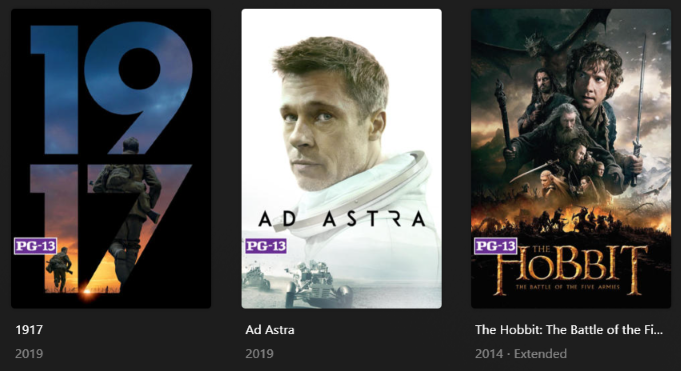
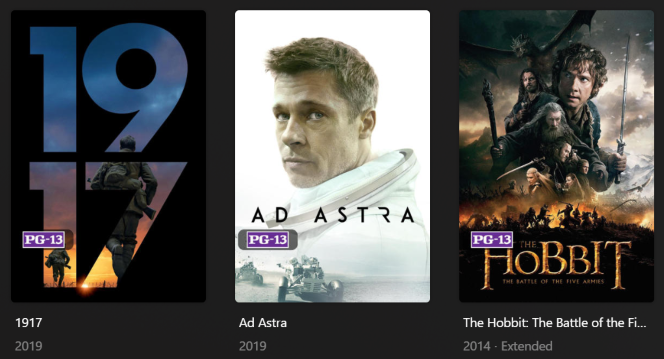
reorg bottom left overlays

diff --git a/docs/defaults/overlays/streaming.md b/docs/defaults/overlays/streaming.md
@@ -55,19 +55,19 @@ Note that the `template_variables:` section only needs to be used if you do want
 
 All [Shared Overlay Variables](../overlay_variables) are available with the default values below as well as the additional Variables below which can be used to customize the file.
 
-| Variable                     | Description & Values                                                                                                                                                                                                                                                                                                                     |
-|:-----------------------------|:-----------------------------------------------------------------------------------------------------------------------------------------------------------------------------------------------------------------------------------------------------------------------------------------------------------------------------------------|
-| `horizontal_offset`          | **Description:** Change the horizontal offset.<br>**Default Value:** `15`                                                                                                                                                                                                                                                                |
-| `horizontal_align`           | **Description:** Change the horizontal alignment.<br>**Default Value:** `left`                                                                                                                                                                                                                                                           |
-| `vertical_offset`            | **Description:** Change the vertical offset.<br>**Default Value:** `150`                                                                                                                                                                                                                                                                 |
-| `vertical_align`             | **Description:** Change the vertical alignment.<br>**Default Value:** `bottom`                                                                                                                                                                                                                                                           |
-| `back_color`                 | **Description:** Change the back color.<br>**Default Value:** `#00000099`                                                                                                                                                                                                                                                                |
-| `back_radius`                | **Description:** Change the back (lozenge) radius .<br>**Default Value:** `30`                                                                                                                                                                                                                                                           |
-| `back_width`                 | **Description:** Change the back (lozenge) width.<br>**Default Value:** `305`                                                                                                                                                                                                                                                            |
-| `back_height`                | **Description:** Change the back (lozenge) height.<br>**Default Value:** `105`                                                                                                                                                                                                                                                           |
-| `region`                     | **Description:** Changes some Streaming Service lists to regional variants (see below table for more information.<br>**Default:** `us`<br>**Values:** `us`,`uk`,`ca`, `da`, `de`, `es`, `fr`, `it`, `pt-br`                                                                                                                              |
-| `originals_only`             | **Description:** Changes Streaming Service overlays to only apply to original content produced by the service.<br>**Note**: Cannot be used with `region`, and only produces overlays for `amazon`, `appletv`, `disney`, `max`, `hulu`, `netflix`, `paramount`, `peacock`<br>**Default:** `false`<br>**Values:** `true`, `false`       |
-| `weight_<<key>>`<sup>1</sup> | **Description:** Controls the weight of the Overlay. Higher numbers have priority.<br>**Values:** Any Number                                                                                                                                                                                                                             |
+| Variable                     | Description & Values                                                                                                                                                                                                                                                                                                            |
+|:-----------------------------|:--------------------------------------------------------------------------------------------------------------------------------------------------------------------------------------------------------------------------------------------------------------------------------------------------------------------------------|
+| `horizontal_offset`          | **Description:** Change the horizontal offset.<br>**Default Value:** `15`                                                                                                                                                                                                                                                       |
+| `horizontal_align`           | **Description:** Change the horizontal alignment.<br>**Default Value:** `left`                                                                                                                                                                                                                                                  |
+| `vertical_offset`            | **Description:** Change the vertical offset.<br>**Default Value:** `390`                                                                                                                                                                                                                                                        |
+| `vertical_align`             | **Description:** Change the vertical alignment.<br>**Default Value:** `bottom`                                                                                                                                                                                                                                                  |
+| `back_color`                 | **Description:** Change the back color.<br>**Default Value:** `#00000099`                                                                                                                                                                                                                                                       |
+| `back_radius`                | **Description:** Change the back (lozenge) radius .<br>**Default Value:** `30`                                                                                                                                                                                                                                                  |
+| `back_width`                 | **Description:** Change the back (lozenge) width.<br>**Default Value:** `305`                                                                                                                                                                                                                                                   |
+| `back_height`                | **Description:** Change the back (lozenge) height.<br>**Default Value:** `105`                                                                                                                                                                                                                                                  |
+| `region`                     | **Description:** Changes some Streaming Service lists to regional variants (see below table for more information.<br>**Default:** `us`<br>**Values:** `us`,`uk`,`ca`, `da`, `de`, `es`, `fr`, `it`, `pt-br`                                                                                                                     |
+| `originals_only`             | **Description:** Changes Streaming Service overlays to only apply to original content produced by the service.<br>**Note**: Cannot be used with `region`, and only produces overlays for `amazon`, `appletv`, `disney`, `max`, `hulu`, `netflix`, `paramount`, `peacock`<br>**Default:** `false`<br>**Values:** `true`, `false` |
+| `weight_<<key>>`<sup>1</sup> | **Description:** Controls the weight of the Overlay. Higher numbers have priority.<br>**Values:** Any Number                                                                                                                                                                                                                    |
 
 1. Each default overlay has a `key` that when calling to effect a specific overlay you must replace `<<key>>` with when calling.
 

diff --git a/docs/defaults/overlays/network.md b/docs/defaults/overlays/network.md
@@ -37,7 +37,7 @@ All [Shared Overlay Variables](../overlay_variables) are available with the defa
 |:--------------------|:------------|
 | `horizontal_offset` | `15`        |
 | `horizontal_align`  | `left`      |
-| `vertical_offset`   | `370`       |
+| `vertical_offset`   | `510`       |
 | `vertical_align`    | `bottom`    |
 | `back_color`        | `#00000099` |
 | `back_radius`       | `30`        |
